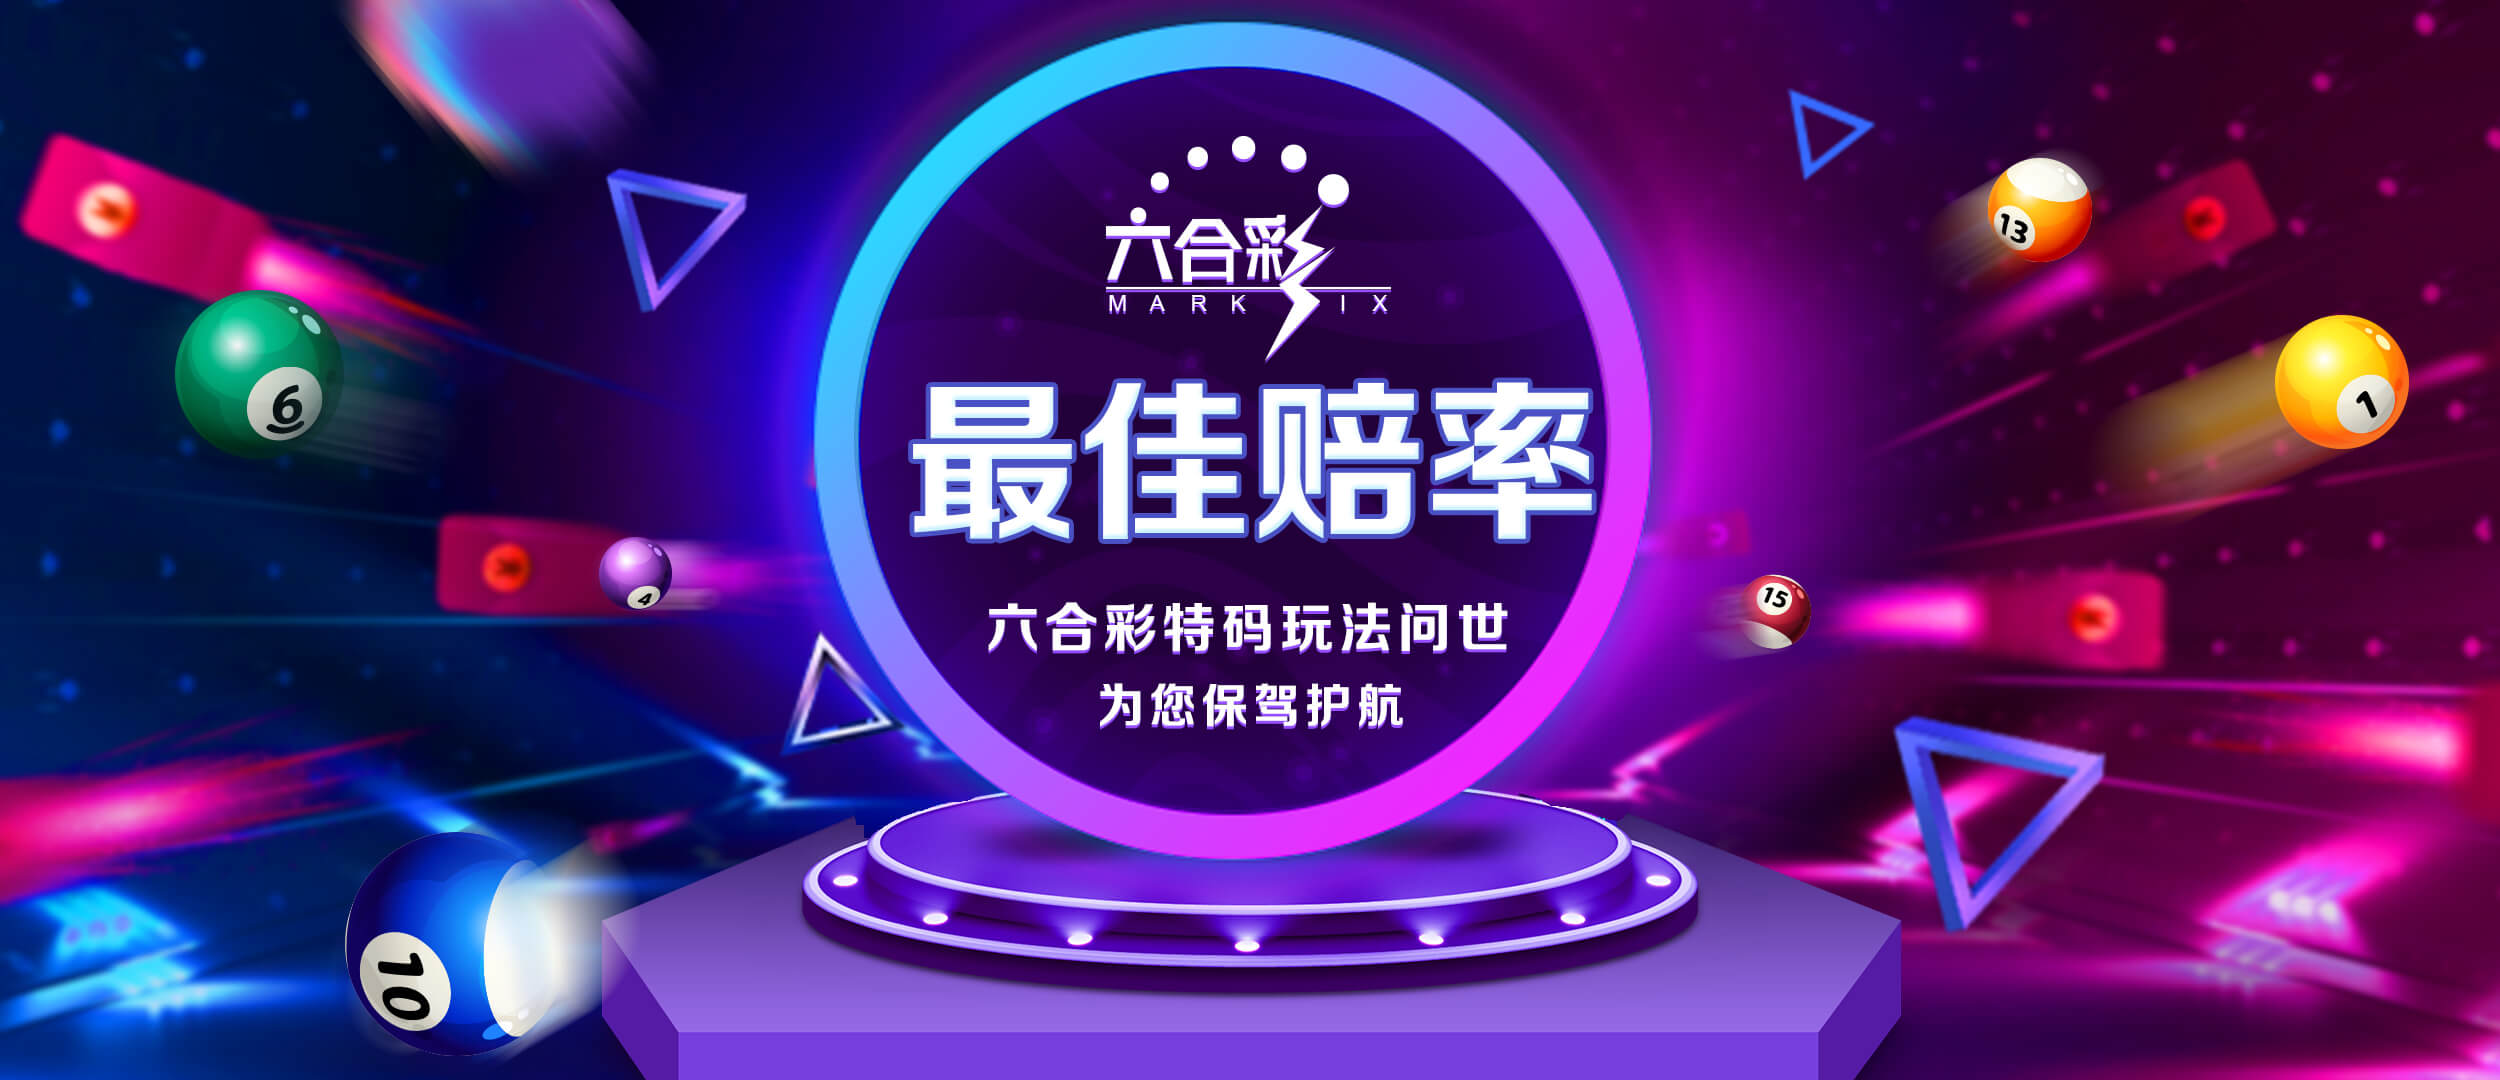
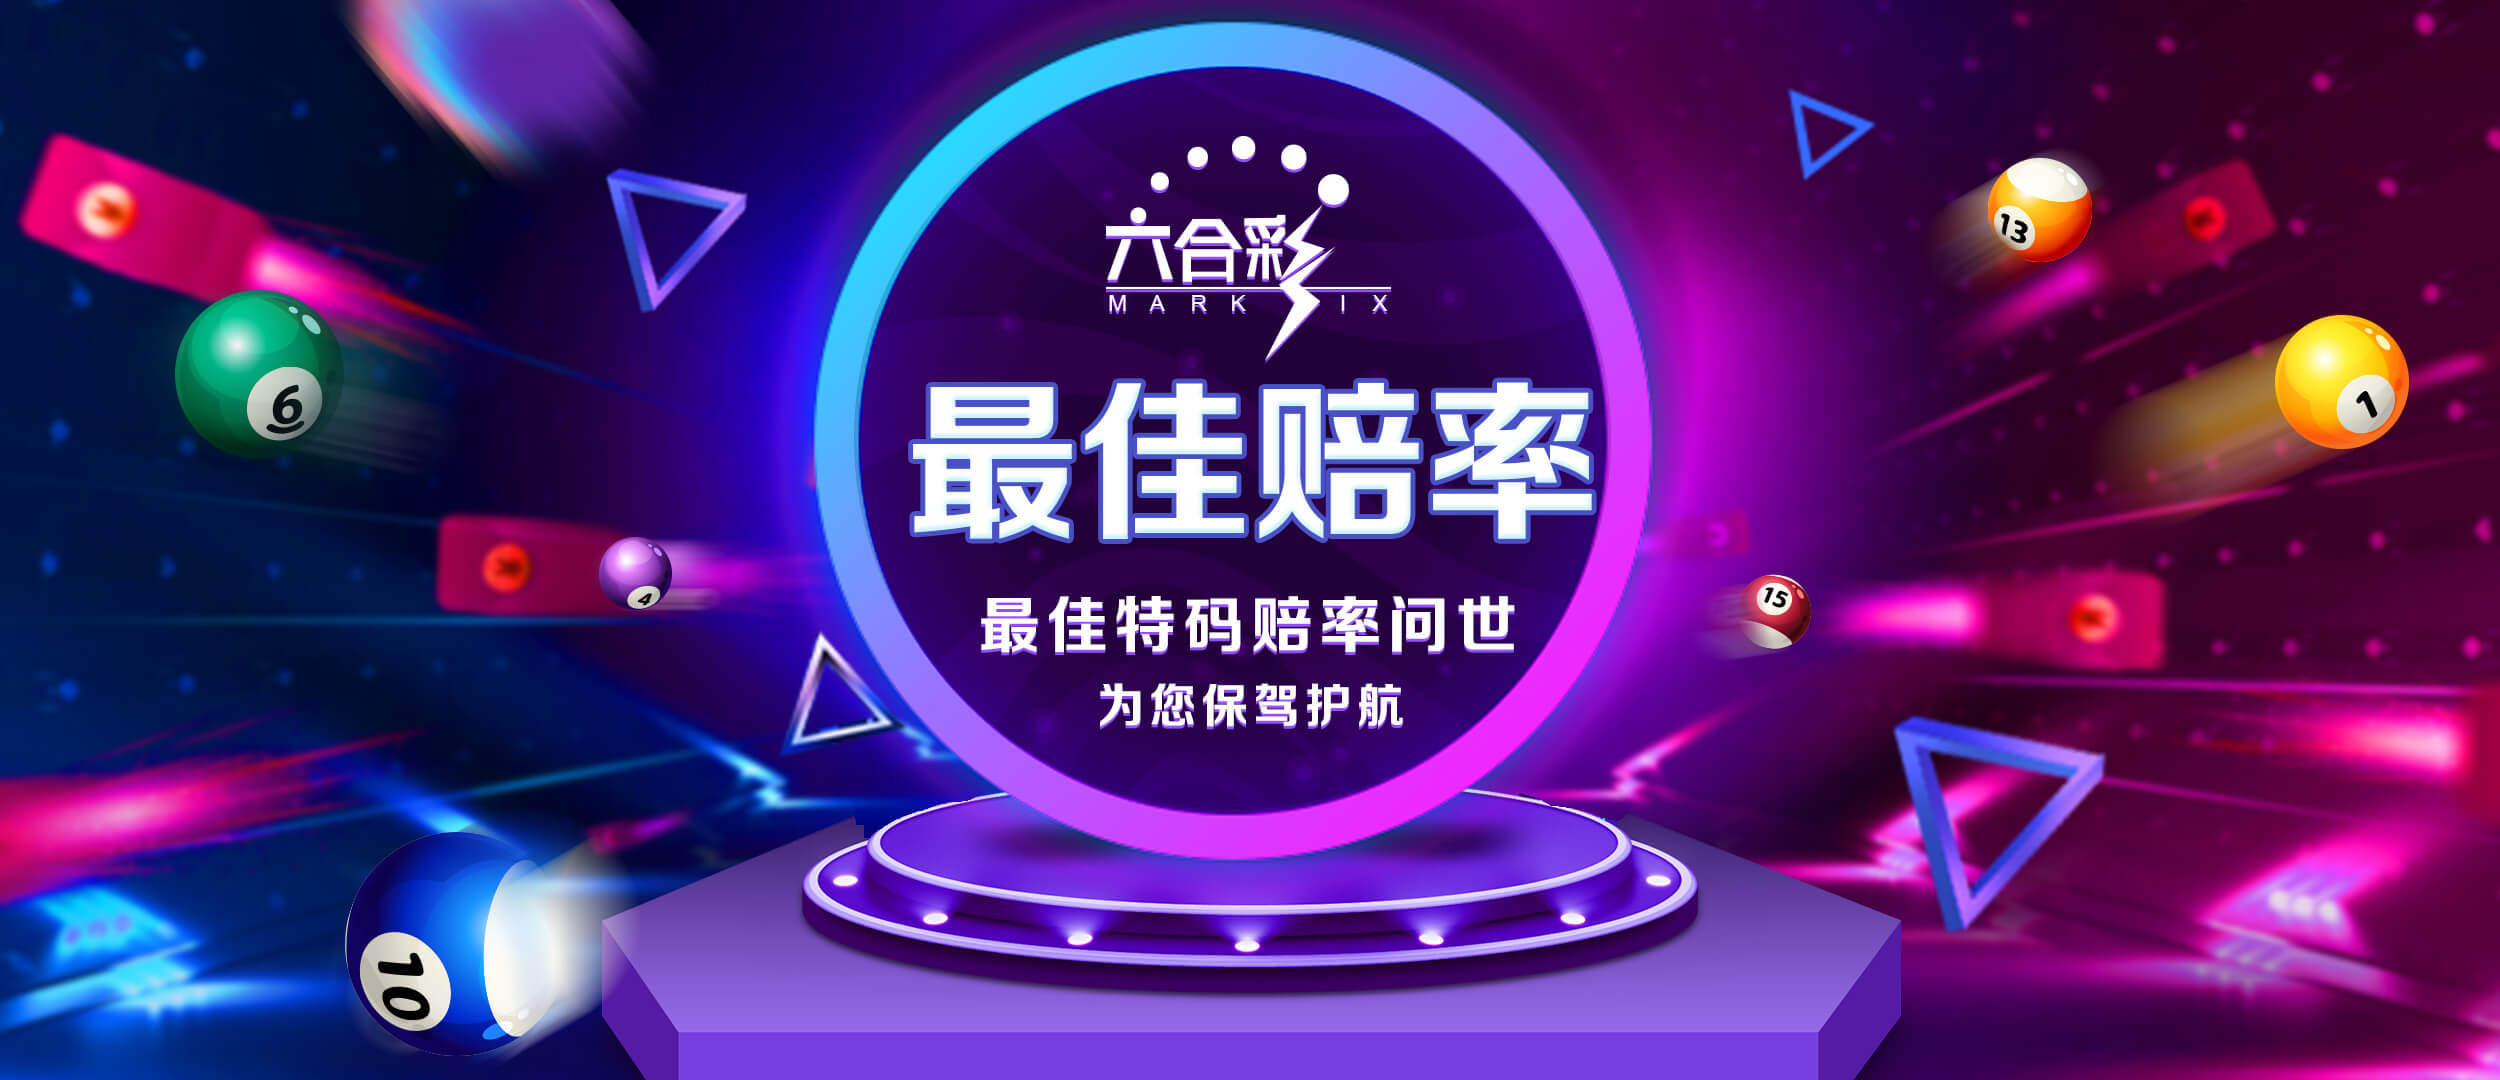
mod

Changed region(s): [[0.3744, 0.55, 0.624, 0.6111]]

diff --git a/js/data.js b/js/data.js
@@ -41,7 +41,7 @@ var vm = new Vue({
                 downloadlink: "", //下载连结
                 mainbannerimg: "images/activebanner/20181102_marksix.jpg", //首页大图2500*1080
                 bannerimg: "images/activebanner/20181102_marksix_s.jpg", //公告内页小图1410*385
-                name: "六合彩特码玩法问世", //公告名称(最好8个全形字以内),download活动素材/轮播图
+                name: "最佳特码赔率问世", //公告名称(最好8个全形字以内),download活动素材/轮播图
                 time: "2018/11", //活动日期
                 containtexts: '',
                 containtext: '' //内容html
